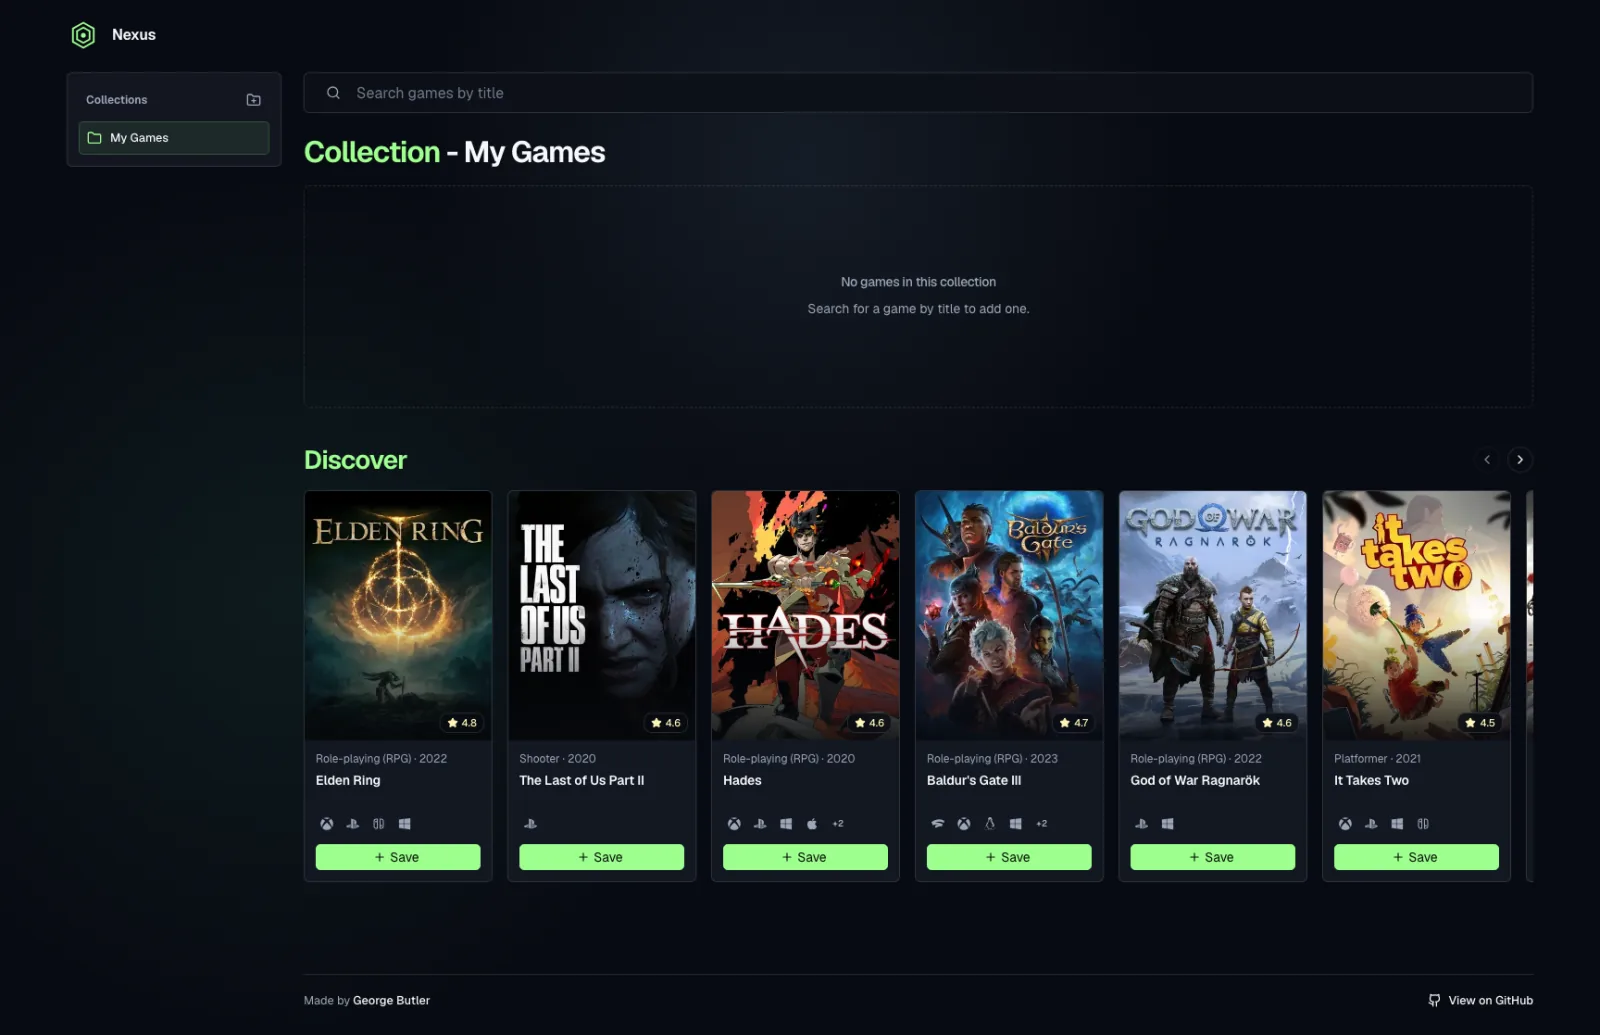
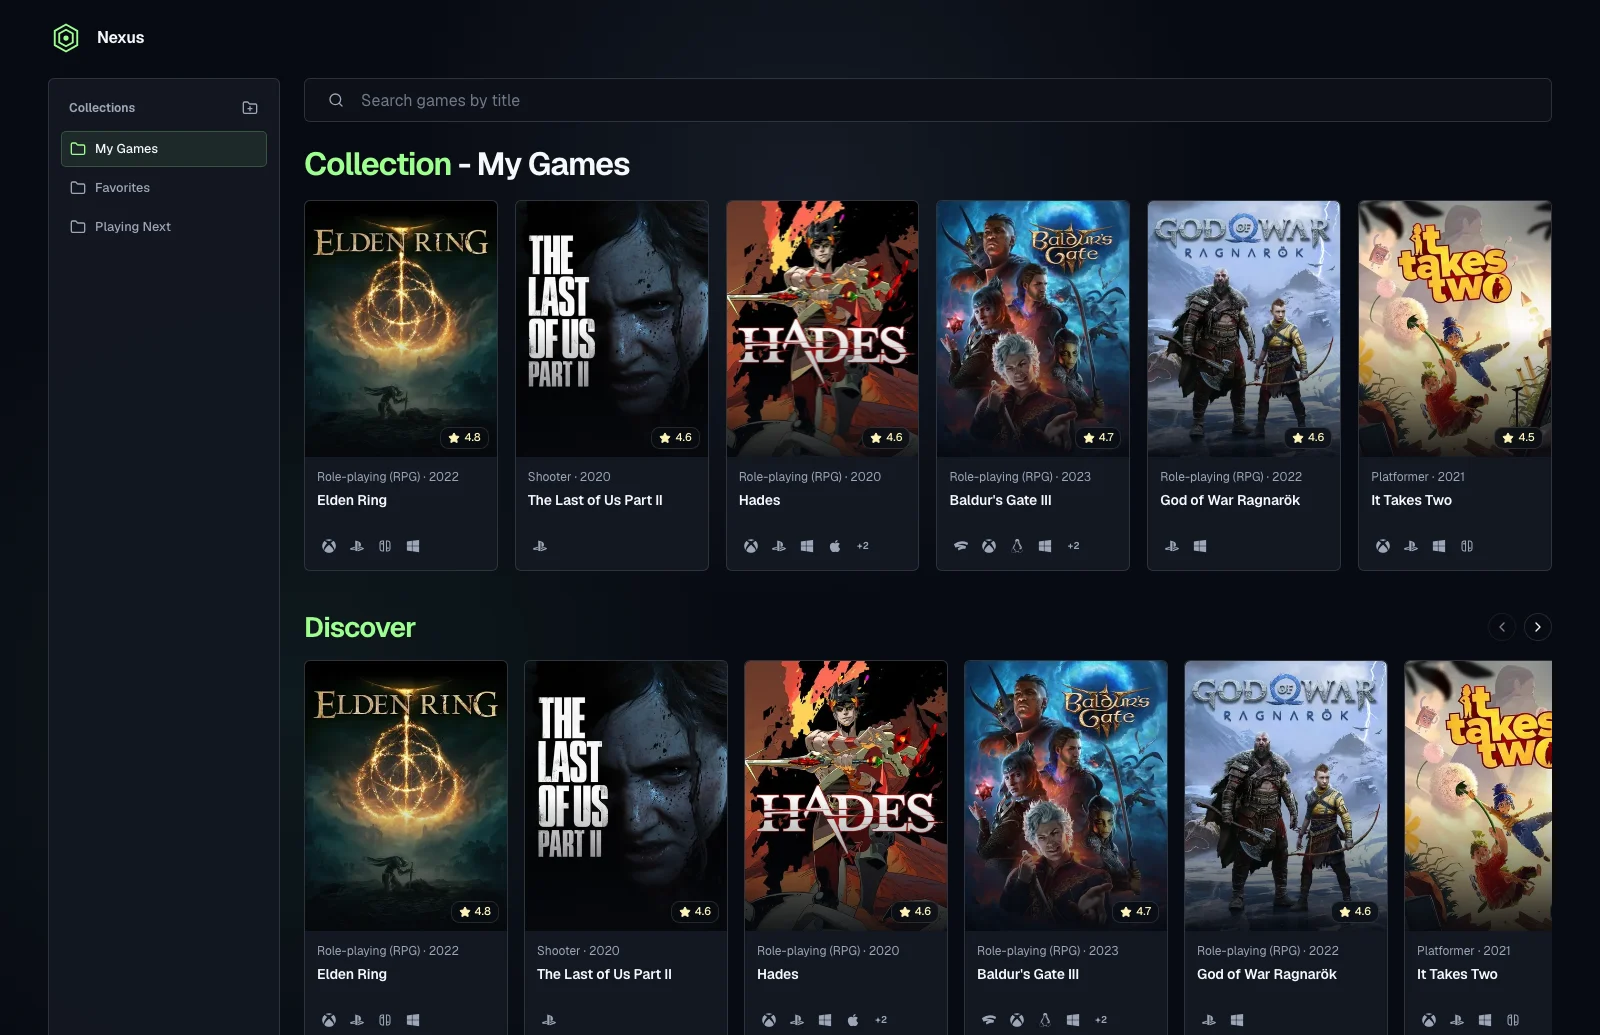
Refresh README library screenshot
Seed the capture with multiple collections and saved games, update the README image, and size the browser sidebar through the Discover row while keeping the footer below it.

diff --git a/app/globals.css b/app/globals.css
@@ -200,14 +200,17 @@ a {
   display: grid;
   flex: 1;
   grid-template-columns: 232px minmax(0, 1fr);
-  gap: 24px;
+  column-gap: 24px;
+  row-gap: 0;
   margin-top: 22px;
 }
 
 .collection-sidebar {
   position: sticky;
   top: 20px;
-  align-self: start;
+  grid-column: 1;
+  grid-row: 1 / 4;
+  align-self: stretch;
   min-width: 0;
   padding: 15px;
   border-radius: 8px;
@@ -423,17 +426,32 @@ a {
 }
 
 .library-content {
-  display: flex;
+  display: contents;
   min-width: 0;
-  min-height: 100%;
-  flex-direction: column;
 }
 
 .library-content__inner {
-  display: flex;
-  min-height: 100%;
-  flex: 1;
-  flex-direction: column;
+  display: contents;
+}
+
+.library-content .search-console {
+  grid-column: 2;
+  grid-row: 1;
+}
+
+.library-content .library-view {
+  grid-column: 2;
+  grid-row: 2;
+}
+
+.library-content .popular-games {
+  grid-column: 2;
+  grid-row: 3;
+}
+
+.library-content .project-footer {
+  grid-column: 2;
+  grid-row: 4;
 }
 
 .search-console {
@@ -986,13 +1004,15 @@ a {
 @media (max-width: 980px) {
   .library-layout {
     grid-template-columns: 1fr;
-    grid-template-rows: auto minmax(0, 1fr);
+    grid-template-rows: auto auto auto auto auto;
     gap: 18px;
   }
 
   .collection-sidebar {
     position: relative;
     top: auto;
+    grid-column: 1;
+    grid-row: 1;
     display: flex;
     align-items: center;
     gap: 10px;
@@ -1057,6 +1077,26 @@ a {
     padding: 8px;
     border-radius: 4px;
     background: #171c28;
+  }
+
+  .library-content .search-console {
+    grid-column: 1;
+    grid-row: 2;
+  }
+
+  .library-content .library-view {
+    grid-column: 1;
+    grid-row: 3;
+  }
+
+  .library-content .popular-games {
+    grid-column: 1;
+    grid-row: 4;
+  }
+
+  .library-content .project-footer {
+    grid-column: 1;
+    grid-row: 5;
   }
 
   .library-grid {
@@ -1382,7 +1422,9 @@ html.isSpatialLibrary .collection-row {
 }
 
 html.isSpatialLibrary .library-content {
+  display: flex;
   min-height: 0;
+  flex-direction: column;
   overflow-y: auto;
   padding: 0;
   overscroll-behavior: contain;
@@ -1390,8 +1432,19 @@ html.isSpatialLibrary .library-content {
 }
 
 html.isSpatialLibrary .library-content__inner {
+  display: flex;
   min-height: 100%;
+  flex: 1;
+  flex-direction: column;
   padding: 18px;
+}
+
+html.isSpatialLibrary .library-content .search-console,
+html.isSpatialLibrary .library-content .library-view,
+html.isSpatialLibrary .library-content .popular-games,
+html.isSpatialLibrary .library-content .project-footer {
+  grid-column: auto;
+  grid-row: auto;
 }
 
 html.isSpatialLibrary .search-console {

diff --git a/README.md b/README.md
@@ -20,7 +20,7 @@
   <a href="https://nexus-library-six.vercel.app">Open the live demo →</a>
 </p>
 
-![Nexus Library desktop interface showing collections, search, and the Discover carousel](docs/images/nexus-library.webp)
+![Nexus Library desktop interface showing populated collections, six saved games, search, and the Discover carousel](docs/images/nexus-library.webp)
 
 ## Features
 
